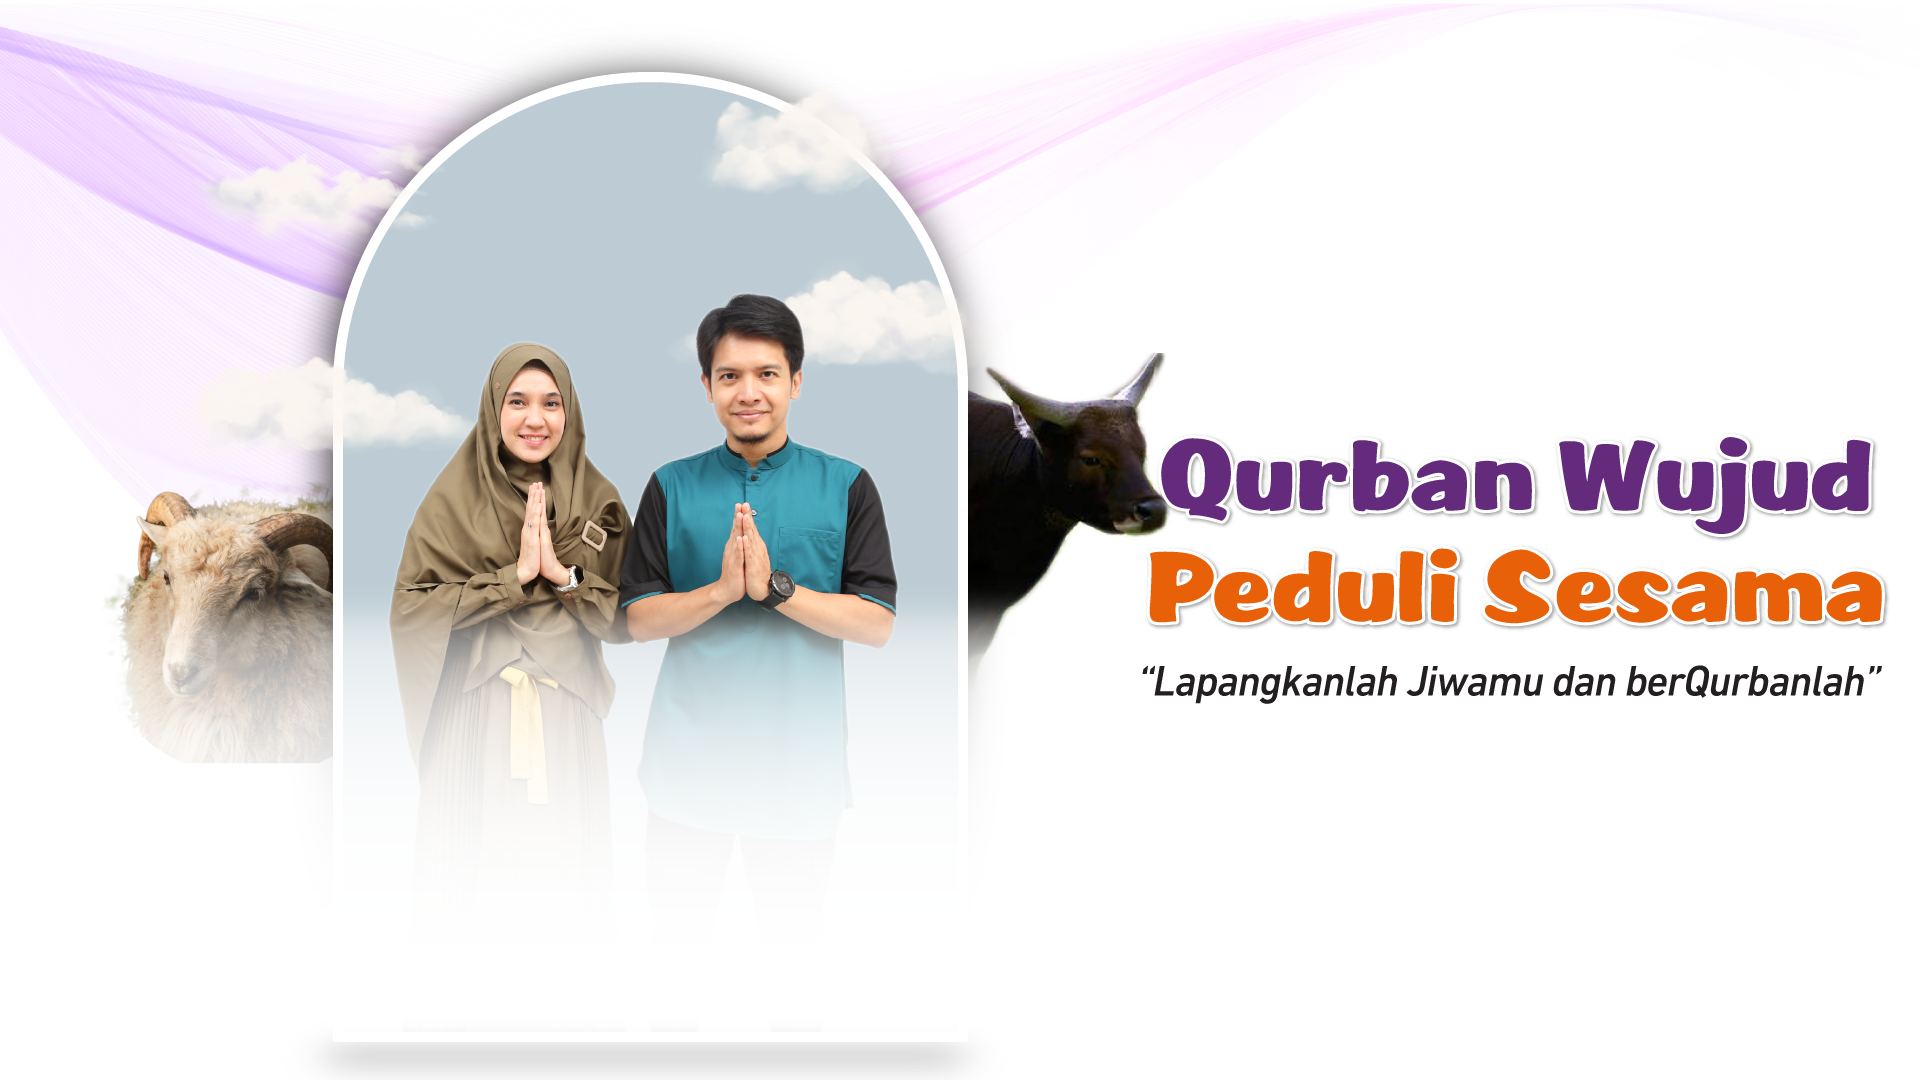
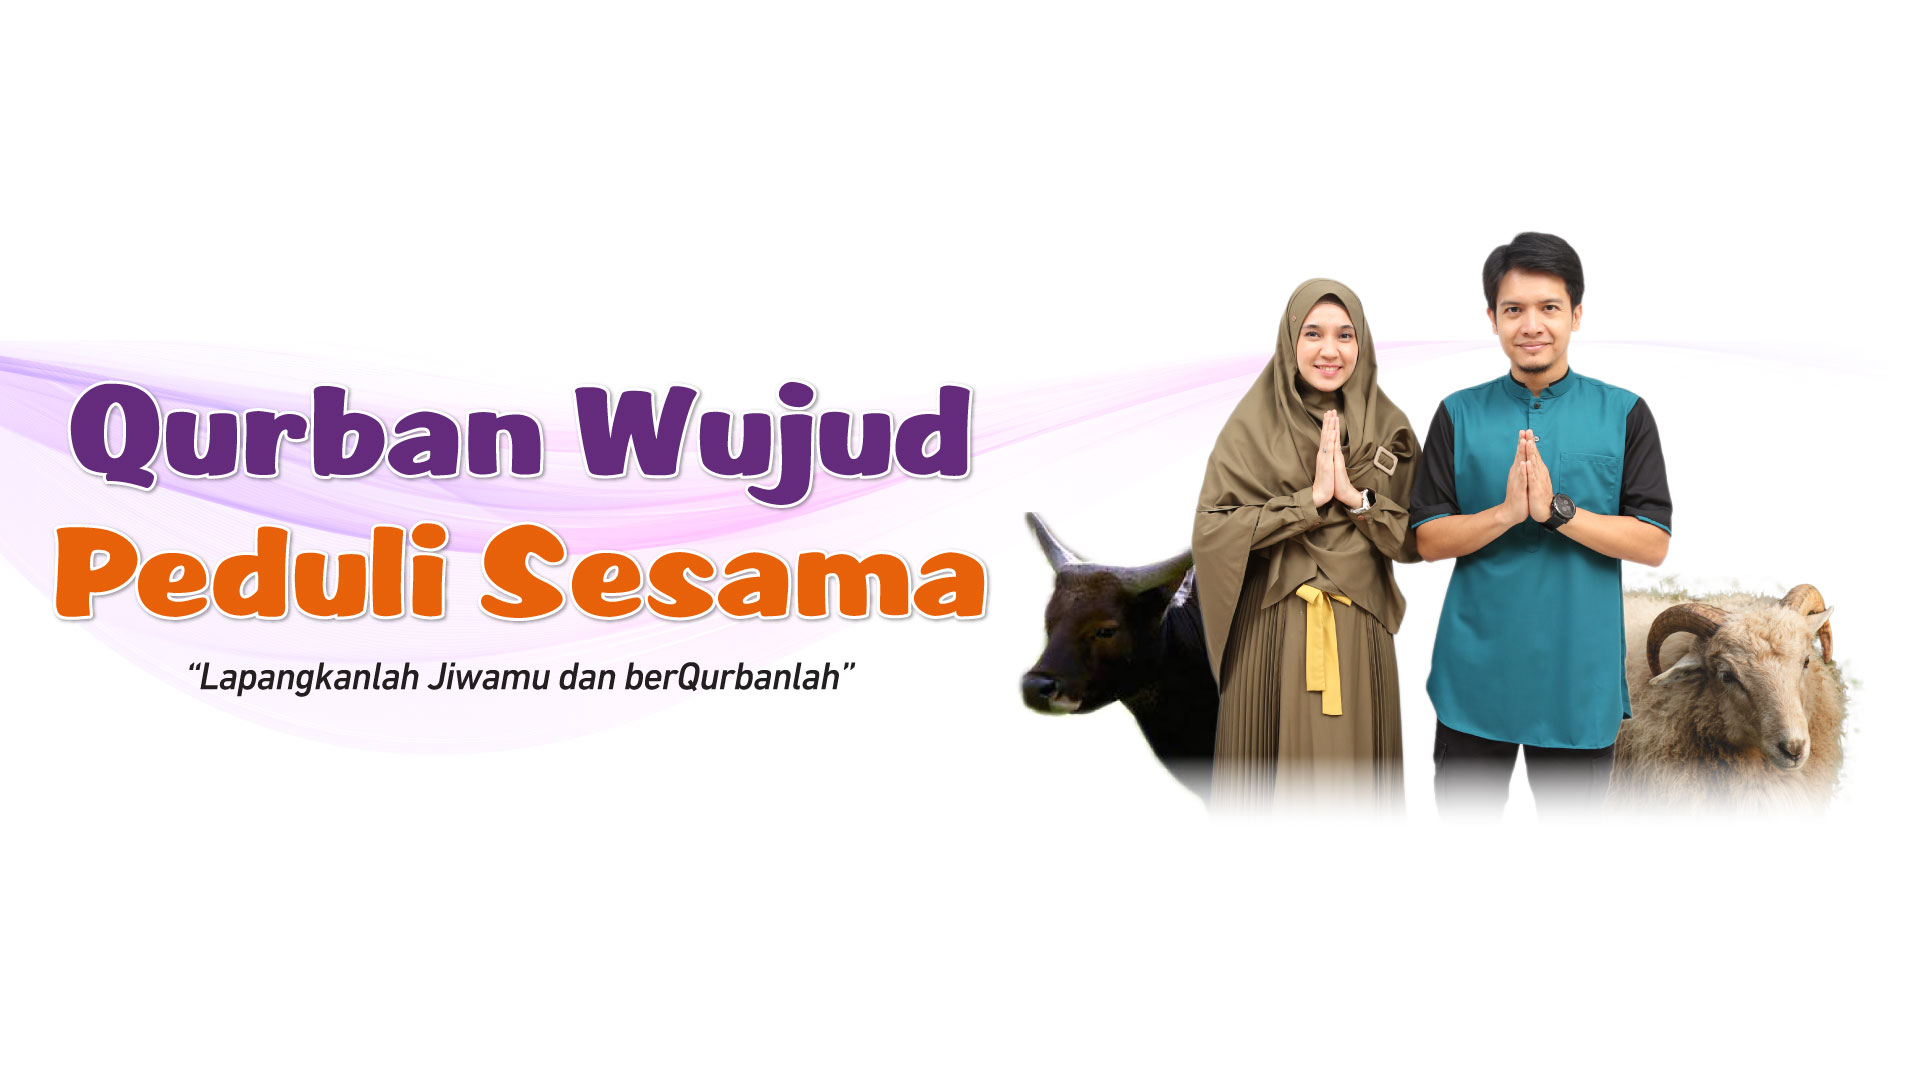
Ganti gambar header

diff --git a/index.html b/index.html
@@ -141,7 +141,7 @@
     <!--banner section end-->
 
     <section id="banner" class="hero-equal-height hero-section ptb-100 full-screen"
-             style="background: url('img/GYD---BANNER-WEB.jpg')no-repeat center center / cover">
+             style="background: url('img/GYD---BANNER-WEB-DIMAS-SETO 2.png')no-repeat center center / cover">
     <!-- <section class="hero-equal-height ptb-100"> -->
         <div class="container">
             <div class="row align-items-center">
